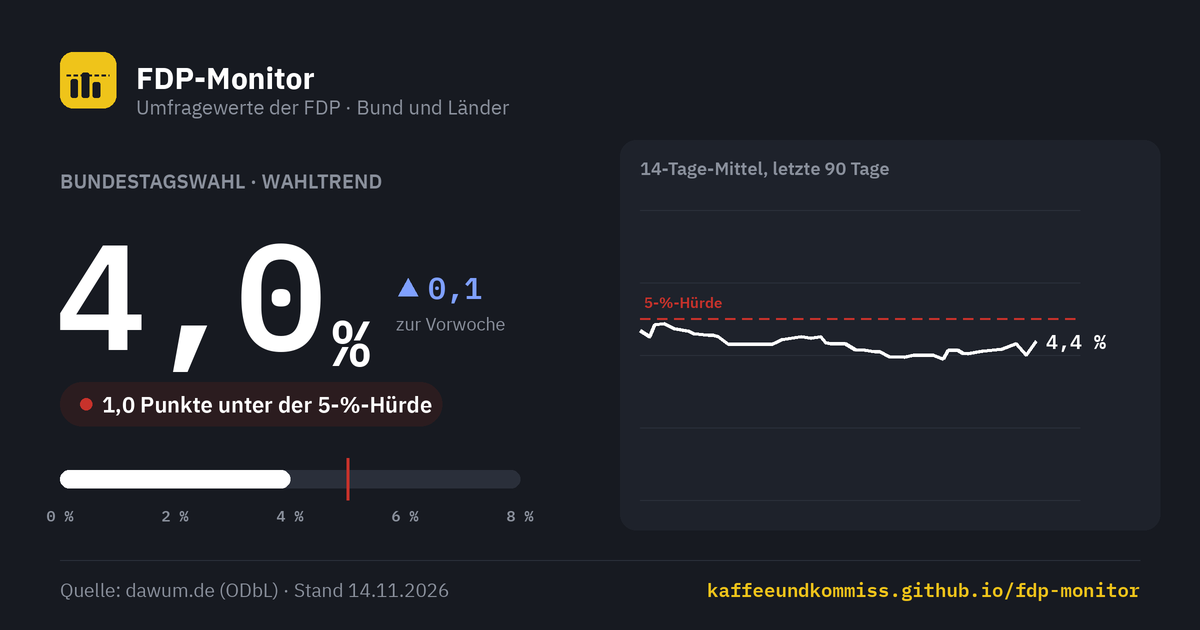
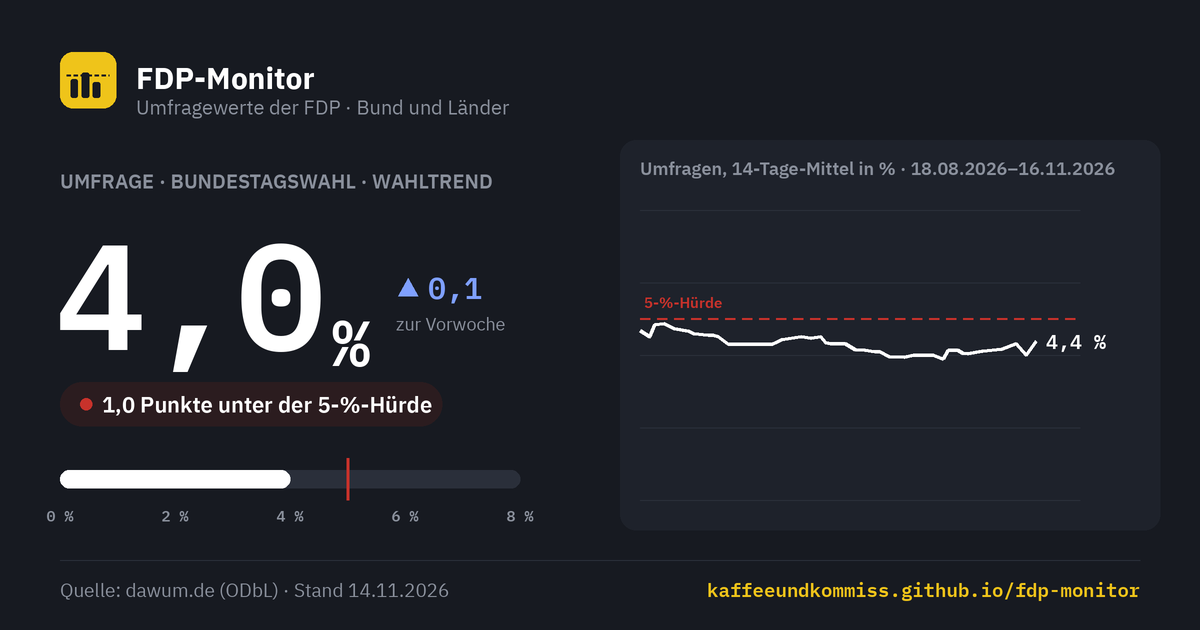
Diagramme eindeutig beschriften: Umfrage, amtliches Ergebnis, Chronik
Kennzeichen je Diagramm, Einheit, Zeitraum und Stand; Vorschaubilder
(og/make-og.py) mit derselben Kennzeichnung, damit das wöchentliche
Update die Beschriftung nicht überschreibt.

Claude-Session: https://claude.ai/code/session_01AuP7hKA5r64Vaqp6wB3yAR

Changed region(s): [[0.5242, 0.2413, 0.925, 0.3016], [0.0308, 0.2714, 0.4317, 0.3016]]

diff --git a/index.html b/index.html
@@ -132,6 +132,9 @@
   .liste .lkopf{display:flex;justify-content:space-between;align-items:baseline;padding-bottom:8px;border-bottom:1px solid var(--line)}
   .liste .lkopf h3{margin:0;font-size:15px;font-weight:600}
   .liste .lkopf .skl{font-size:13px;color:var(--mute)}
+  .liste .llegende{margin:8px 0 0;font-size:13px;color:var(--mute)}
+  .abschnitt-legende{margin:6px 0 0;font-size:13px;color:var(--mute);max-width:46em}
+  .kachel .wart{font-size:12px;font-weight:600;color:var(--mute);margin-top:6px}
   .inst-zeile{display:grid;grid-template-columns:150px 1fr 60px;align-items:center;gap:14px;padding:7px 0;border-bottom:1px solid var(--hair)}
   .inst-zeile .nam{font-weight:500;font-size:14px;white-space:nowrap;overflow:hidden;text-overflow:ellipsis}
   .inst-zeile .dat{font-family:var(--mono);font-size:13px;color:var(--mute)}
@@ -233,7 +236,7 @@
   }
 .einstieg{margin:0 0 -20px;max-width:40em;color:var(--mute);font-size:16px;line-height:1.5}
 </style>
-<link rel="stylesheet" href="bereich.css?v=2">
+<link rel="stylesheet" href="bereich.css?v=3">
 </head>
 <body>
 <div class="kk-leiste"><div class="kk-in">
@@ -273,23 +276,28 @@
   <section id="bund-hero" aria-labelledby="bund-titel" data-teilen="Bundestagswahl"></section>
 
   <section id="bund-verlauf" class="karte verlauf" aria-labelledby="verlauf-titel" data-teilen="Zeitverlauf Bund" hidden>
+    <span class="art umfrage">Umfragen</span>
     <h2 id="verlauf-titel">FDP im Zeitverlauf · Bund</h2>
     <p class="sub" id="verlauf-sub">Punkte: Einzelumfragen · Linie: 14-Tage-Mittel</p>
     <div id="fdp-verlauf-chart" class="fv-chart"></div>
-    <p class="fv-quelle">Quelle: <a href="https://dawum.de/Bundestag/" rel="noopener">dawum.de</a> · 14-Tage-Mittel ungewichtet</p>
+    <p class="fv-quelle" id="verlauf-quelle">Quelle: <a href="https://dawum.de/Bundestag/" rel="noopener">dawum.de</a> (ODbL) · 14-Tage-Mittel ungewichtet</p>
   </section>
 
   <section id="anstehend" aria-labelledby="anstehend-titel" data-teilen="Anstehende Wahlen">
+    <span class="art umfrage">Umfragen</span>
     <div class="kopfzeile">
       <h2 id="anstehend-titel">Anstehende Wahlen</h2>
       <span class="hint">nächster Termin zuerst</span>
     </div>
+    <p class="abschnitt-legende">Große Zahl: Umfragewert in % (Wahltrend, sonst Ø der neuesten Umfrage je Institut), kein Ergebnis. Balken 0–8 %, rote Linie: 5-%-Hürde.</p>
     <div class="kacheln" id="anstehend-grid" style="margin-top:16px"></div>
-    <p class="quelle">Quelle: <a href="https://dawum.de" rel="noopener">dawum.de</a> (ODbL) · ohne Wahltrend: Ø der neuesten Umfrage je Institut</p>
+    <p class="quelle">Quelle: <a href="https://dawum.de" rel="noopener">dawum.de</a> (ODbL) · ohne Wahltrend: Ø der neuesten Umfrage je Institut<span id="anstehend-stand"></span></p>
   </section>
 
   <section id="gelaufen" aria-labelledby="gelaufen-titel" data-teilen="Gelaufene Wahlen" data-quelle="amtliche Endergebnisse der Landeswahlleitungen" hidden>
+    <span class="art amtlich">Amtliche Ergebnisse</span>
     <div class="kopfzeile"><h2 id="gelaufen-titel">Gelaufene Wahlen</h2></div>
+    <p class="abschnitt-legende">Amtliche Endergebnisse in %, Quelle je Zeile. Balken 0–8 %, rote Linie: 5-%-Hürde.</p>
     <div class="karte tabelle" id="gelaufen-tabelle" style="margin-top:16px"></div>
   </section>
 </main>
@@ -472,6 +480,10 @@
     return '';
   }
 
+  // Kennzeichen über jedem Diagramm: Umfrage oder amtliches Ergebnis (Gestaltung in bereich.css).
+  const artMarke = (art) => art === 'amtlich'
+    ? '<span class="art amtlich">Amtliches Ergebnis</span>' : '<span class="art umfrage">Umfragen</span>';
+
   const gruppen = gruppiereEbenen(data.ebenen || [], NOW);
 
   // ---------- Bund-Hero ----------
@@ -496,6 +508,7 @@
 
     heroEl.innerHTML = `<div class="karte hero">
       <div class="zahlen">
+        ${artMarke(lz.art === 'ergebnis' ? 'amtlich' : 'umfrage')}
         <h2 class="ueberschrift" id="bund-titel">${esc(bund.name)} · ${
           lz.art === 'trend' ? 'Wahltrend' : lz.art === 'ergebnis' ? 'Amtliches Ergebnis' : 'Ø der Umfragen'}</h2>
         <div class="leitzahl">
@@ -511,7 +524,7 @@
             ${balken(lz.wert, '<div class="marklbl">5 %</div>' + punkte)}
           </div>
           <div class="achse"><span>0 %</span><span>2 %</span><span>4 %</span><span>6 %</span><span>8 %</span></div>
-          <div class="legende">Balken: ${lz.art === 'trend' ? 'Wahltrend' : 'Leitzahl'} · Punkte: Einzelumfragen</div>
+          <div class="legende">Angaben in %. Balken: ${lz.art === 'trend' ? 'Wahltrend (Umfragen)' : lz.art === 'ergebnis' ? 'amtliches Ergebnis' : 'Ø der Umfragen'} · Punkte: Einzelumfragen · rote Linie: 5-%-Hürde</div>
         </div>
         <dl class="kennzahlen">
           <div><dt>Ø neueste Umfrage je Institut</dt><dd>${lz.avg == null ? '–' : pz(lz.avg)}</dd></div>
@@ -529,6 +542,7 @@
           <div class="lkopf">
             <h3>Neueste Umfrage je Institut</h3><span class="skl">Skala 0–8 %</span>
           </div>
+          <p class="llegende">Balken: Umfragewert in % (blau: ab 5 %, schwarz: darunter) · rote Linie: 5-%-Hürde</p>
           ${rows.length ? rows.slice().sort((a, b) => (b.datum || '').localeCompare(a.datum || '')).map((r) =>
             `<div class="inst-zeile">
                <div><div class="nam">${esc(r.institut)}</div><div class="dat">${dfmt(r.datum)}</div></div>
@@ -574,8 +588,15 @@
     }
     const linie = gleitendesMittel(punkte, FENSTER);
     const sub = document.getElementById('verlauf-sub');
-    if(sub) sub.textContent = `Letzte ${TAGE} Tage · Punkte: Einzelumfragen · `
-      + `Linie: ${FENSTER}-Tage-Mittel`;
+    // Zeitraum und Stand als Datum, nicht nur "letzte 90 Tage": ein Screenshot muss
+    // auch Wochen später noch sagen, welches Fenster er zeigt.
+    const bisT = NOW || new Date();
+    const vonT = new Date(Date.UTC(bisT.getUTCFullYear(), bisT.getUTCMonth(), bisT.getUTCDate()) - TAGE * 864e5);
+    const isoT = (t) => new Date(t).toISOString().slice(0, 10);
+    if(sub) sub.textContent = `Umfragewerte Bundestagswahl in %, ${dfmt(isoT(vonT))}–${dfmt(isoT(bisT))} `
+      + `(letzte ${TAGE} Tage) · Punkte: Einzelumfragen · Linie: ${FENSTER}-Tage-Mittel · rot gestrichelt: 5-%-Hürde`;
+    const vq = document.getElementById('verlauf-quelle');
+    if(vq) vq.append(` · letzte Umfrage vom ${dfmt(isoT(punkte[punkte.length - 1].t))}`);
 
     const NS = 'http://www.w3.org/2000/svg';
     const el = (n, a, eltern) => { const e = document.createElementNS(NS, n);
@@ -748,6 +769,7 @@
         </div>
         ${tage != null ? `<span class="tage">in ${tage} T.</span>` : ''}
       </div>
+      <div class="wart">${lz.art === 'ergebnis' ? 'Amtliches Ergebnis' : lz.art === 'trend' ? 'Umfrage · Wahltrend' : 'Umfrage · Ø'}</div>
       <div class="wert">
         <span class="num">${lz.wert == null ? '–' : pz(lz.wert)}</span>
         <span class="pill ${h.status}">${esc(datenhinweis ? 'nicht ausgewiesen' : h.kurz)}</span>
@@ -770,8 +792,8 @@
     document.getElementById('gelaufen-tabelle').innerHTML = `<table>
       <thead><tr>
         <th>Wahl</th><th>Datum</th>
-        <th style="text-align:right">Ergebnis</th>
-        ${mitTrend ? '<th style="text-align:right">Letzter Trend</th>' : ''}
+        <th style="text-align:right">Ergebnis (amtl.)</th>
+        ${mitTrend ? '<th style="text-align:right">Letzter Wahltrend (Umfrage)</th>' : ''}
         <th class="abstand">Abstand zur Hürde</th>
       </tr></thead>
       <tbody>${gelaufen.map((e) => {
@@ -784,7 +806,7 @@
         return `<tr id="zeile-${esc(e.id)}">
           <td class="wahl">${esc(teileName(e.name).land)}${beleg}</td>
           <td class="mono">${dfmt(e.wahltermin)}</td>
-          <td class="erg">${lz.wert != null ? pz(lz.wert) + (erg.vorlaeufig ? ' *' : '') : '–'}</td>
+          <td class="erg">${lz.wert != null ? pz(lz.wert) + (lz.art !== 'ergebnis' ? ' (Umfrage)' : erg.vorlaeufig ? ' *' : '') : '–'}</td>
           ${mitTrend ? `<td class="trend">${t.wert != null ? pz(t.wert) : '–'}</td>` : ''}
           <td class="abstand" title="${lz.avg != null ? 'Ø der Umfragen nach der Wahl: ' + pz(lz.avg) : ''}">${balken(lz.wert)}</td>
         </tr>`;
@@ -792,6 +814,13 @@
       ${gelaufen.some((e) => (e.wahlergebnis || {}).vorlaeufig)
         ? '<p class="basis" style="padding:0 20px 14px">* vorläufiges amtliches Ergebnis</p>' : ''}`;
   }
+
+  const standSeite = SNAP ? 'Momentaufnahme ' + kwText(SNAP) : data.erstellt ? 'Stand ' + dfmt(data.erstellt) : '';
+  const ast = document.getElementById('anstehend-stand');
+  // Die Kacheln zeigen live abgerufene Umfragen, wenn dawum erreichbar war – dann gilt deren Stand.
+  const liveStand = !SNAP && db && db.Database && db.Database.Last_Update;
+  if(ast) ast.textContent = liveStand ? ' · Umfragen live, Datenbank-Stand ' + dfmt(liveStand)
+    : standSeite ? ' · ' + standSeite : '';
 
   // Link- und Bild-Knöpfe erst jetzt: die Abschnitte sind gerendert, und ein #Anker
   // aus einem geteilten Link kann angesprungen werden.

diff --git a/partei-seite.js b/partei-seite.js
@@ -15,6 +15,8 @@
       .map((b) => `<a href="${esc(b.url)}" rel="noopener">${esc(b.name)}</a>`);
     const hinweis = (d.belege_hinweis || {})[k];
     const teile = [links.length ? 'Quelle: ' + links.join(' · ') : '', hinweis ? esc(hinweis) : ''].filter(Boolean);
+    if(teile.length && d.stand && ['wahlen', 'zeitleiste', 'vorsitz'].includes(k))
+      teile.push('· Stand ' + dfmt(d.stand) + ' (zuletzt geprüft)');
     if(teile.length) p.innerHTML = teile.join(' '); else p.remove();
   });
 
@@ -63,12 +65,16 @@
   const k = PU.kennzahlen(d.wahlen, HUERDE);
   if(k && $('kennzahlen')){
     document.getElementById('kennzahlen').innerHTML = [
-      ['Bestes Ergebnis', fmt(k.best.ergebnis) + ' %', 'Bundestagswahl ' + k.best.jahr, ''],
-      ['Letztes Ergebnis', fmt(k.letzte.ergebnis) + ' %', 'Bundestagswahl ' + k.letzte.jahr + ' · ' + k.letzte.rolle,
+      ['Bestes Ergebnis', fmt(k.best.ergebnis) + ' %', 'Bundestagswahl ' + k.best.jahr + ' · amtlich', ''],
+      ['Letztes Ergebnis', fmt(k.letzte.ergebnis) + ' %', 'Bundestagswahl ' + k.letzte.jahr + ' · amtlich · danach ' + k.letzte.rolle,
         k.letzte.ergebnis < HUERDE ? 'rot' : ''],
       ['Wahlen unter 5 %', k.unter + ' von ' + k.anzahl, 'Bundestagswahlen ' + d.wahlen[0].jahr + '–' + k.letzte.jahr, ''],
     ].map(([l, n, s, c]) => `<div class="karte"><div class="lbl">${esc(l)}</div><div class="num ${c}">${esc(n)}</div><div class="sub">${esc(s)}</div></div>`).join('');
   }
+
+  // ---------- Zeitraum je Diagramm (Titel/Untertitel) ----------
+  if((d.wahlen || []).length && $('wahlen-titel'))
+    $('wahlen-titel').textContent = 'Bundestagswahlen ' + d.wahlen[0].jahr + '–' + d.wahlen[d.wahlen.length - 1].jahr;
 
   // ---------- Bundesvorsitzende: Kennzahlen und Tabelle ----------
   // Laufende Amtszeit zählt bis heute, deshalb einmal beim Laden berechnet.
@@ -102,6 +108,7 @@
     const mt = 4, mb = 24, zh = 24, H = mt + zeiten.length * zh + mb;
     svg.setAttribute('viewBox', `0 0 ${W} ${H}`);
     const von = Date.UTC(1948, 0, 1), bis = Math.max(...zeiten.map((z) => z.b));
+    if($('vorsitz-zeitraum')) $('vorsitz-zeitraum').textContent = 'Zeitraum ' + new Date(von).getUTCFullYear() + ' bis heute, x-Achse in Jahren. ';
     const X = (t) => ml + (t - von) / (bis - von) * (W - ml - mr);
     const tip = tooltip(host);
     const schritt = schmal ? 20 : 10;
@@ -125,7 +132,7 @@
   function wahlen(){
     const host = document.getElementById('chart-wahlen'); host.replaceChildren();
     const rows = d.wahlen, W = Math.max(280, host.clientWidth), H = 250, schmal = W < 420;
-    const ml = 30, mr = 6, mt = 22, mb = 26;
+    const ml = schmal ? 30 : 42, mr = 6, mt = 22, mb = 26;
     const yMax = Math.max(16, Math.ceil(Math.max(...rows.map((r) => r.ergebnis)) / 2) * 2);
     const band = (W - ml - mr) / rows.length, bw = Math.min(32, band * 0.62);
     const X = (i) => ml + i * band + band / 2, Y = (v) => H - mb - v / yMax * (H - mt - mb);
@@ -134,7 +141,7 @@
     const tip = tooltip(host);
     for(let v = 0; v <= yMax; v += 4){
       el('line', {x1: ml, x2: W - mr, y1: Y(v), y2: Y(v), stroke: 'var(--line)'}, svg);
-      txt(svg, {x: ml - 6, y: Y(v), dy: '0.32em', 'text-anchor': 'end'}, v);
+      txt(svg, {x: ml - 6, y: Y(v), dy: '0.32em', 'text-anchor': 'end'}, schmal ? v : v + ' %');
     }
     el('line', {x1: ml, x2: W - mr, y1: Y(HUERDE), y2: Y(HUERDE), stroke: 'var(--huerde)',
       'stroke-width': 1.5, 'stroke-dasharray': '5 4'}, svg);
@@ -156,6 +163,7 @@
     const host = document.getElementById('chart-zeit'); host.replaceChildren();
     const jetzt = new Date();
     const von = Date.UTC(1998, 0, 1), bis = Date.UTC(jetzt.getUTCFullYear(), jetzt.getUTCMonth(), jetzt.getUTCDate());
+    if($('zeit-zeitraum')) $('zeit-zeitraum').textContent = 'Zeitraum ' + new Date(von).getUTCFullYear() + ' bis heute. ';
     const balken = PU.zeitBalken(d.zeitleiste, von, bis);
     const W = Math.max(280, host.clientWidth), ml = 4, mr = 4, mt = 4, mb = 24, lh = 26, kopf = 16;
     const H = mt + SPUREN.length * (lh + kopf + 4) + mb;

diff --git a/partei.html b/partei.html
@@ -33,7 +33,7 @@
 <link href="https://fonts.googleapis.com/css2?family=Barlow+Condensed:wght@500;600;700&family=IBM+Plex+Sans:wght@400;500;600;700&family=IBM+Plex+Mono:wght@400;500;600&display=swap" rel="stylesheet">
 <link rel="stylesheet" href="basis.css">
 <link rel="stylesheet" href="partei.css?v=2">
-<link rel="stylesheet" href="bereich.css?v=2">
+<link rel="stylesheet" href="bereich.css?v=3">
 </head>
 <body>
 <div class="kk-leiste"><div class="kk-in">
@@ -73,8 +73,9 @@
   <section class="kennzahlen" id="kennzahlen" aria-label="Kennzahlen"></section>
 
   <section class="karte diagramm" id="bundestagswahlen" aria-labelledby="wahlen-titel" data-teilen="Bundestagswahlen" data-quelle="Bundeswahlleiterin">
+    <span class="art amtlich">Amtliche Ergebnisse</span>
     <h2 id="wahlen-titel">Bundestagswahlen</h2>
-    <p class="sub">Zweitstimmen in Prozent. Farbe: Rolle in der folgenden Wahlperiode. Gestrichelt: 5-%-Hürde.</p>
+    <p class="sub">Amtliche Endergebnisse, keine Umfragen: Zweitstimmenanteil in %. Farbe: Rolle in der folgenden Wahlperiode. Gestrichelt: 5-%-Hürde.</p>
     <div class="chart" id="chart-wahlen"></div>
     <div class="legende" id="legende-wahlen"></div>
     <p class="quelle" data-beleg="wahlen"></p>
@@ -82,8 +83,9 @@
 
 
   <section class="karte diagramm" id="zeitleiste" aria-labelledby="zeit-titel" data-teilen="Vorsitz, Programme, Rolle im Bund" data-quelle="bpb, Bundeswahlleiterin">
+    <span class="art chronik">Chronik</span>
     <h2 id="zeit-titel">Vorsitz, Programme, Rolle im Bund</h2>
-    <p class="sub">Senkrechte Linien: Bundestagswahlen.</p>
+    <p class="sub"><span id="zeit-zeitraum"></span>Senkrechte Linien: Bundestagswahlen.</p>
     <div class="chart" id="chart-zeit"></div>
     <div class="legende" id="legende-zeit"></div>
     <dl class="zeit-schluessel" id="schluessel-zeit" hidden></dl>
@@ -97,8 +99,9 @@
     </div>
     <div class="kennzahlen" id="vorsitz-kennzahlen"></div>
     <div class="karte diagramm" id="vorsitzende" data-teilen="Bundesvorsitz" data-quelle="bpb, tagesschau">
+      <span class="art chronik">Chronik</span>
       <h2 id="vorsitz-chart-titel">Amtszeiten im Zeitstrahl</h2>
-      <p class="sub">Amtsdauer in Jahren je Amtszeit. Blau: amtierend, bis heute gerechnet; grau: abgeschlossen.</p>
+      <p class="sub"><span id="vorsitz-zeitraum"></span>Amtsdauer in Jahren je Amtszeit. Blau: amtierend, bis heute gerechnet; grau: abgeschlossen.</p>
       <div class="chart" id="chart-vorsitz"></div>
       <details class="vtab">
         <summary>Alle Amtszeiten als Tabelle</summary>

diff --git a/tests/e2e/polls.spec.js b/tests/e2e/polls.spec.js
@@ -517,7 +517,7 @@ test.describe("Zeitverlauf Bund", () => {
 
   test("nennt den Zeitraum in der Unterzeile", async ({ page }) => {
     await mitVerlauf(page);
-    await expect(page.locator("#verlauf-sub")).toContainText("Letzte 90 Tage");
+    await expect(page.locator("#verlauf-sub")).toContainText("letzte 90 Tage");
   });
 
   test.describe("mobil", () => {
@@ -558,5 +558,24 @@ test.describe("Zeitverlauf Bund", () => {
       expect(tip.y).toBeGreaterThanOrEqual(chart.y - 1);
       expect(tip.y + tip.height).toBeLessThanOrEqual(chart.y + chart.height + 1);
     });
+  });
+});
+
+// Umfragewerte, Wahlergebnisse und Zeitverlauf dürfen nicht verwechselt werden:
+// jeder Abschnitt trägt ein Kennzeichen als Text, Kacheln und Tabelle zusätzlich je Wert.
+test.describe("Kennzeichnung der Diagramme", () => {
+  test("Umfragen und amtliche Ergebnisse sind je Abschnitt gekennzeichnet", async ({ page }) => {
+    await seite(page);
+    await expect(page.locator("#bund-hero .art")).toHaveText("Umfragen");
+    await expect(page.locator("#bund-verlauf .art")).toHaveText("Umfragen");
+    await expect(page.locator("#anstehend .art")).toHaveText("Umfragen");
+    await expect(page.locator("#gelaufen .art")).toHaveText("Amtliche Ergebnisse");
+    await expect(page.locator("#gelaufen-tabelle thead")).toContainText("Ergebnis (amtl.)");
+    await expect(page.locator("#anstehend .kachel .wart").first()).toContainText("Umfrage");
+  });
+
+  test("die Quelle der Kacheln nennt den Stand", async ({ page }) => {
+    await seite(page);
+    await expect(page.locator("#anstehend .quelle")).toContainText("Stand");
   });
 });

diff --git a/tests/e2e/partei.spec.js b/tests/e2e/partei.spec.js
@@ -71,3 +71,16 @@ test("Zeitleiste am Desktop: Schlüssel nur für Spuren, deren Balken zu schmal 
   const schl = page.locator("#schluessel-zeit");
   await expect(schl).not.toContainText("Karlsruher");  // passt beschriftet in den Balken
 });
+
+test("Diagramme der Parteiseite: Kennzeichen, Einheit, Zeitraum und Stand", async ({ page }) => {
+  await page.goto("/partei.html");
+  await expect(page.locator("#chart-wahlen rect").first()).toBeVisible();
+  await expect(page.locator("#bundestagswahlen .art")).toHaveText("Amtliche Ergebnisse");
+  await expect(page.locator("#wahlen-titel")).toHaveText(/^Bundestagswahlen \d{4}–\d{4}$/);
+  await expect(page.locator("#chart-wahlen text", { hasText: /^0 %$/ })).toHaveCount(1);
+  await expect(page.locator("#bundestagswahlen .quelle")).toContainText("Stand");
+  await expect(page.locator("#zeitleiste .art")).toHaveText("Chronik");
+  await expect(page.locator("#zeit-zeitraum")).toContainText("bis heute");
+  await expect(page.locator("#vorsitzende .art")).toHaveText("Chronik");
+  await expect(page.locator("#vorsitz-zeitraum")).toContainText("bis heute");
+});

diff --git a/bereich.css b/bereich.css
@@ -50,3 +50,12 @@
 
 /* Monitorname ist auf der Umfrageseite die Hauptüberschrift (h1) */
 .marke h1.name { margin: 0 }
+
+/* Kennzeichen über Diagrammen (22.11.2026): Umfrage, amtliches Ergebnis oder Chronik.
+   Als Text, nicht nur als Farbe, damit es auch in Graustufen und auf Screenshots eindeutig ist.
+   Umfragen gestrichelt (Schätzung), amtliche Ergebnisse vollflächig (festgestellt). */
+.art { display: inline-block; margin: 0 0 8px; padding: 3px 7px; font: 600 11px/1.3 var(--mono, monospace);
+  letter-spacing: .08em; text-transform: uppercase; border: 1px solid; border-radius: 0; white-space: nowrap }
+.art.umfrage { color: var(--kk-akzent, #1E4FD8); border-style: dashed; background: #FFFFFF }
+.art.amtlich { color: #FFFFFF; background: #000000; border-color: #000000 }
+.art.chronik { color: #555555; border-color: #D6D6D6; background: #FFFFFF }

diff --git a/tests/e2e/teilen.spec.js b/tests/e2e/teilen.spec.js
@@ -64,7 +64,7 @@ test.describe("Belege und Einordnung", () => {
 
   test("ohne Trendwerte gibt es keine leere Trend-Spalte", async ({ page }) => {
     await laden(page);
-    await expect(page.locator("#gelaufen-tabelle th")).not.toContainText(["Letzter Trend"]);
+    await expect(page.locator("#gelaufen-tabelle th")).not.toContainText(["Letzter Wahltrend"]);
   });
 
   test("ein Wert aus nur einer Umfrage ist als wenig belastbar markiert, auch am Handy", async ({ page }) => {

diff --git a/og/make-og.py b/og/make-og.py
@@ -133,7 +133,7 @@ def bild_umfragen(data, pfad):
     c = Leinwand()
     c.kopf("Umfragewerte der FDP · Bund und Länder")
 
-    c.text(60, 168, ("Bundestagswahl · " + art).upper(), HALB(20), GRAU)
+    c.text(60, 168, ("Umfrage · Bundestagswahl · " + art).upper(), HALB(20), GRAU)
     num = "–" if wert is None else fmt(wert)
     c.text(56, 196, num, MONO(150), WEISS)
     nx = 56 + c.breite(num, MONO(150))
@@ -177,7 +177,8 @@ def bild_umfragen(data, pfad):
     linie, ab, bis = mittel_14(((bund.get("verlauf") or {}).get("rows") or []), stichtag=erstellt)
     gx0, gx1, gy0, gy1 = 640, 1140, 190, 500
     c.rect(gx0 - 20, gy0 - 50, gx1 + 20, gy1 + 30, "#1E222B", 16)
-    c.text(gx0, gy0 - 22, "14-Tage-Mittel, letzte 90 Tage", HALB(18), GRAU, "lm")
+    c.text(gx0, gy0 - 22, f"Umfragen, 14-Tage-Mittel in % · {dfmt(ab.isoformat())}–{dfmt(bis.isoformat())}",
+           HALB(18), GRAU, "lm")
     ymax = 8
     X = lambda d: gx0 + (d - ab).days / max(1, (bis - ab).days) * (gx1 - gx0 - 60)
     Y = lambda v: gy1 - v / ymax * (gy1 - gy0 - 20)
@@ -189,6 +190,8 @@ def bild_umfragen(data, pfad):
         c.line([(X(t), Y(v)) for t, v in linie], WEISS, 3.5)
         t, v = linie[-1]
         c.text(X(t) + 10, Y(v), fmt(v) + " %", MONO(20), WEISS, "lm")
+    else:
+        c.text((gx0 + gx1 - 60) / 2, gy1 - 40, "Zeitreihe derzeit nicht verfügbar", HALB(18), GRAU, "mm")
 
     c.fuss(f"Quelle: dawum.de (ODbL) · Stand {dfmt(stand) if stand else 'unbekannt'}")
     c.speichern(pfad)
@@ -199,7 +202,7 @@ def bild_partei(partei, pfad):
     c.kopf("Die FDP auf Bundesebene")
     wahlen = partei["wahlen"]
     erste, letzte = wahlen[0], wahlen[-1]
-    c.text(60, 168, f"BUNDESTAGSWAHLEN {erste['jahr']}–{letzte['jahr']} · ZWEITSTIMMEN", HALB(20), GRAU)
+    c.text(60, 168, f"BUNDESTAGSWAHLEN {erste['jahr']}–{letzte['jahr']} · AMTLICHE ERGEBNISSE IN %", HALB(20), GRAU)
     beste = max(wahlen, key=lambda w: w["ergebnis"])
     c.text(60, 214, f"Bestes Ergebnis {fmt(beste['ergebnis'])} % ({beste['jahr']})", HALB(26), WEISS)
     c.text(60, 254, f"Zuletzt {fmt(letzte['ergebnis'])} % ({letzte['jahr']})", HALB(26), "#FF8A80")

diff --git a/README.md b/README.md
@@ -9,3 +9,10 @@ pip install -r requirements-dev.txt && pytest              # update.py
 npm install && npm test                                    # monitor-utils.js, partei-utils.js (Vitest)
 npm install && npx playwright install chromium && npm run test:e2e   # index.html, partei.html (Playwright)
 ```
+
+## Diagrammbeschriftung (seit 22.11.2026)
+
+Jedes Diagramm trägt ein Kennzeichen als Text (`.art` in `bereich.css`): **Umfragen** (gestrichelter Rahmen),
+**Amtliche Ergebnisse** (schwarz) oder **Chronik**. Dazu Titel, Einheit (%), Zeitraum, Quelle und Stand.
+Die Texte stehen in `index.html`, `partei.html`, `partei-seite.js` und `og/make-og.py`; `update.py` schreibt nur Daten
+und überschreibt sie nicht. Vergleichslinien heißen „Wahl JJJJ (amtlich)“.
